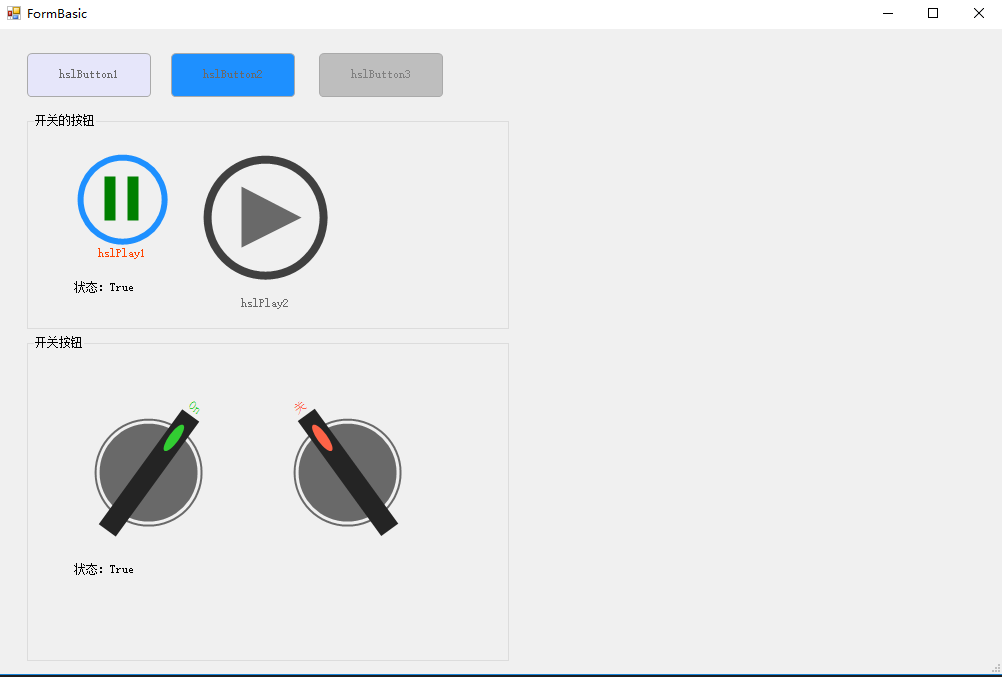
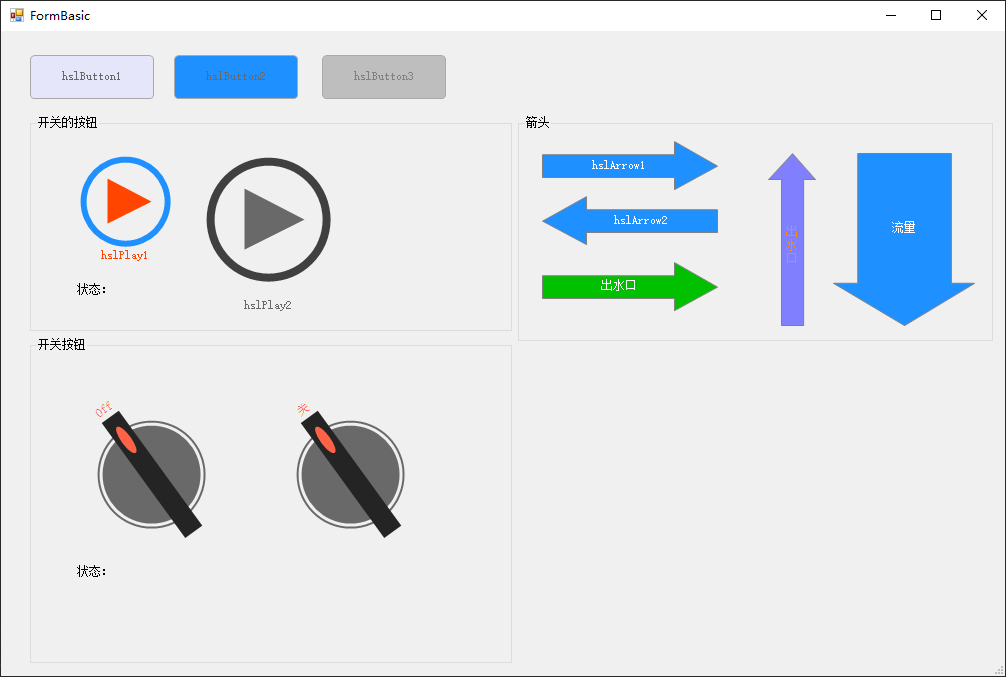
feat(release): v2.0.4

diff --git a/HslControlsDemo/FormBasic.Designer.cs b/HslControlsDemo/FormBasic.Designer.cs
@@ -29,18 +29,25 @@
         private void InitializeComponent( )
         {
             this.groupBox1 = new System.Windows.Forms.GroupBox();
+            this.hslPlay2 = new HslControls.HslPlay();
             this.label1 = new System.Windows.Forms.Label();
+            this.hslPlay1 = new HslControls.HslPlay();
             this.groupBox2 = new System.Windows.Forms.GroupBox();
             this.label2 = new System.Windows.Forms.Label();
             this.hslSwitch2 = new HslControls.HslSwitch();
             this.hslSwitch1 = new HslControls.HslSwitch();
-            this.hslPlay2 = new HslControls.HslPlay();
-            this.hslPlay1 = new HslControls.HslPlay();
             this.hslButton3 = new HslControls.HslButton();
             this.hslButton2 = new HslControls.HslButton();
             this.hslButton1 = new HslControls.HslButton();
+            this.groupBox3 = new System.Windows.Forms.GroupBox();
+            this.hslArrow1 = new HslControls.HslArrow();
+            this.hslArrow2 = new HslControls.HslArrow();
+            this.hslArrow3 = new HslControls.HslArrow();
+            this.hslArrow4 = new HslControls.HslArrow();
+            this.hslArrow5 = new HslControls.HslArrow();
             this.groupBox1.SuspendLayout();
             this.groupBox2.SuspendLayout();
+            this.groupBox3.SuspendLayout();
             this.SuspendLayout();
             // 
             // groupBox1
@@ -55,6 +62,18 @@
             this.groupBox1.TabStop = false;
             this.groupBox1.Text = "开关的按钮";
             // 
+            // hslPlay2
+            // 
+            this.hslPlay2.ActiveColor = System.Drawing.Color.FromArgb(((int)(((byte)(192)))), ((int)(((byte)(64)))), ((int)(((byte)(0)))));
+            this.hslPlay2.BorderColor = System.Drawing.Color.FromArgb(((int)(((byte)(64)))), ((int)(((byte)(64)))), ((int)(((byte)(64)))));
+            this.hslPlay2.Cursor = System.Windows.Forms.Cursors.Hand;
+            this.hslPlay2.ForeColor = System.Drawing.Color.DimGray;
+            this.hslPlay2.Location = new System.Drawing.Point(172, 37);
+            this.hslPlay2.Name = "hslPlay2";
+            this.hslPlay2.Size = new System.Drawing.Size(132, 173);
+            this.hslPlay2.TabIndex = 5;
+            this.hslPlay2.Text = "hslPlay2";
+            // 
             // label1
             // 
             this.label1.AutoSize = true;
@@ -63,6 +82,16 @@
             this.label1.Size = new System.Drawing.Size(41, 12);
             this.label1.TabIndex = 4;
             this.label1.Text = "状态：";
+            // 
+            // hslPlay1
+            // 
+            this.hslPlay1.Cursor = System.Windows.Forms.Cursors.Hand;
+            this.hslPlay1.Location = new System.Drawing.Point(47, 37);
+            this.hslPlay1.Name = "hslPlay1";
+            this.hslPlay1.Size = new System.Drawing.Size(96, 110);
+            this.hslPlay1.TabIndex = 3;
+            this.hslPlay1.Text = "hslPlay1";
+            this.hslPlay1.OnPlayChanged += new System.Action<object, bool>(this.hslPlay1_OnPlayChanged);
             // 
             // groupBox2
             // 
@@ -107,28 +136,6 @@
             this.hslSwitch1.Text = "hslSwitch1";
             this.hslSwitch1.OnSwitchChanged += new System.Action<object, bool>(this.hslSwitch1_OnSwitchChanged);
             // 
-            // hslPlay2
-            // 
-            this.hslPlay2.ActiveColor = System.Drawing.Color.FromArgb(((int)(((byte)(192)))), ((int)(((byte)(64)))), ((int)(((byte)(0)))));
-            this.hslPlay2.BorderColor = System.Drawing.Color.FromArgb(((int)(((byte)(64)))), ((int)(((byte)(64)))), ((int)(((byte)(64)))));
-            this.hslPlay2.Cursor = System.Windows.Forms.Cursors.Hand;
-            this.hslPlay2.ForeColor = System.Drawing.Color.DimGray;
-            this.hslPlay2.Location = new System.Drawing.Point(172, 37);
-            this.hslPlay2.Name = "hslPlay2";
-            this.hslPlay2.Size = new System.Drawing.Size(132, 173);
-            this.hslPlay2.TabIndex = 5;
-            this.hslPlay2.Text = "hslPlay2";
-            // 
-            // hslPlay1
-            // 
-            this.hslPlay1.Cursor = System.Windows.Forms.Cursors.Hand;
-            this.hslPlay1.Location = new System.Drawing.Point(47, 37);
-            this.hslPlay1.Name = "hslPlay1";
-            this.hslPlay1.Size = new System.Drawing.Size(96, 110);
-            this.hslPlay1.TabIndex = 3;
-            this.hslPlay1.Text = "hslPlay1";
-            this.hslPlay1.OnPlayChanged += new System.Action<object, bool>(this.hslPlay1_OnPlayChanged);
-            // 
             // hslButton3
             // 
             this.hslButton3.CustomerInformation = null;
@@ -158,11 +165,87 @@
             this.hslButton1.TabIndex = 0;
             this.hslButton1.Text = "hslButton1";
             // 
+            // groupBox3
+            // 
+            this.groupBox3.Controls.Add(this.hslArrow5);
+            this.groupBox3.Controls.Add(this.hslArrow4);
+            this.groupBox3.Controls.Add(this.hslArrow3);
+            this.groupBox3.Controls.Add(this.hslArrow2);
+            this.groupBox3.Controls.Add(this.hslArrow1);
+            this.groupBox3.Location = new System.Drawing.Point(517, 85);
+            this.groupBox3.Name = "groupBox3";
+            this.groupBox3.Size = new System.Drawing.Size(475, 226);
+            this.groupBox3.TabIndex = 10;
+            this.groupBox3.TabStop = false;
+            this.groupBox3.Text = "箭头";
+            // 
+            // hslArrow1
+            // 
+            this.hslArrow1.EdgeColor = System.Drawing.Color.Gray;
+            this.hslArrow1.FactorX = 0.75F;
+            this.hslArrow1.FactorY = 0.27F;
+            this.hslArrow1.Location = new System.Drawing.Point(24, 25);
+            this.hslArrow1.Name = "hslArrow1";
+            this.hslArrow1.Size = new System.Drawing.Size(176, 49);
+            this.hslArrow1.TabIndex = 0;
+            this.hslArrow1.Text = "hslArrow1";
+            // 
+            // hslArrow2
+            // 
+            this.hslArrow2.ArrowDirection = System.Windows.Forms.ArrowDirection.Left;
+            this.hslArrow2.EdgeColor = System.Drawing.Color.Gray;
+            this.hslArrow2.FactorX = 0.75F;
+            this.hslArrow2.FactorY = 0.27F;
+            this.hslArrow2.Location = new System.Drawing.Point(24, 80);
+            this.hslArrow2.Name = "hslArrow2";
+            this.hslArrow2.Size = new System.Drawing.Size(176, 49);
+            this.hslArrow2.TabIndex = 1;
+            this.hslArrow2.Text = "hslArrow2";
+            // 
+            // hslArrow3
+            // 
+            this.hslArrow3.ArrowBackColor = System.Drawing.Color.FromArgb(((int)(((byte)(0)))), ((int)(((byte)(192)))), ((int)(((byte)(0)))));
+            this.hslArrow3.EdgeColor = System.Drawing.Color.Gray;
+            this.hslArrow3.FactorX = 0.75F;
+            this.hslArrow3.FactorY = 0.27F;
+            this.hslArrow3.Location = new System.Drawing.Point(24, 146);
+            this.hslArrow3.Name = "hslArrow3";
+            this.hslArrow3.Size = new System.Drawing.Size(176, 49);
+            this.hslArrow3.TabIndex = 2;
+            this.hslArrow3.Text = "出水口";
+            // 
+            // hslArrow4
+            // 
+            this.hslArrow4.ArrowBackColor = System.Drawing.Color.FromArgb(((int)(((byte)(128)))), ((int)(((byte)(128)))), ((int)(((byte)(255)))));
+            this.hslArrow4.ArrowDirection = System.Windows.Forms.ArrowDirection.Up;
+            this.hslArrow4.EdgeColor = System.Drawing.Color.Gray;
+            this.hslArrow4.FactorX = 0.85F;
+            this.hslArrow4.FactorY = 0.27F;
+            this.hslArrow4.ForeColor = System.Drawing.Color.DarkOrange;
+            this.hslArrow4.Location = new System.Drawing.Point(250, 37);
+            this.hslArrow4.Name = "hslArrow4";
+            this.hslArrow4.Size = new System.Drawing.Size(48, 173);
+            this.hslArrow4.TabIndex = 3;
+            this.hslArrow4.Text = "出水口";
+            // 
+            // hslArrow5
+            // 
+            this.hslArrow5.ArrowDirection = System.Windows.Forms.ArrowDirection.Down;
+            this.hslArrow5.EdgeColor = System.Drawing.Color.Gray;
+            this.hslArrow5.FactorX = 0.75F;
+            this.hslArrow5.FactorY = 0.17F;
+            this.hslArrow5.Location = new System.Drawing.Point(315, 37);
+            this.hslArrow5.Name = "hslArrow5";
+            this.hslArrow5.Size = new System.Drawing.Size(142, 173);
+            this.hslArrow5.TabIndex = 4;
+            this.hslArrow5.Text = "流量";
+            // 
             // FormBasic
             // 
             this.AutoScaleDimensions = new System.Drawing.SizeF(6F, 12F);
             this.AutoScaleMode = System.Windows.Forms.AutoScaleMode.Font;
             this.ClientSize = new System.Drawing.Size(1004, 645);
+            this.Controls.Add(this.groupBox3);
             this.Controls.Add(this.groupBox2);
             this.Controls.Add(this.groupBox1);
             this.Controls.Add(this.hslButton3);
@@ -175,6 +258,7 @@
             this.groupBox1.PerformLayout();
             this.groupBox2.ResumeLayout(false);
             this.groupBox2.PerformLayout();
+            this.groupBox3.ResumeLayout(false);
             this.ResumeLayout(false);
 
         }
@@ -192,5 +276,11 @@
         private HslControls.HslSwitch hslSwitch2;
         private HslControls.HslSwitch hslSwitch1;
         private System.Windows.Forms.Label label2;
+        private System.Windows.Forms.GroupBox groupBox3;
+        private HslControls.HslArrow hslArrow5;
+        private HslControls.HslArrow hslArrow4;
+        private HslControls.HslArrow hslArrow3;
+        private HslControls.HslArrow hslArrow2;
+        private HslControls.HslArrow hslArrow1;
     }
 }

diff --git a/HslControlsDemo/FormCurveHistory.Designer.cs b/HslControlsDemo/FormCurveHistory.Designer.cs
@@ -43,6 +43,8 @@
             this.button7 = new System.Windows.Forms.Button();
             this.checkBox3 = new System.Windows.Forms.CheckBox();
             this.hslCurveHistory1 = new HslControls.HslCurveHistory();
+            this.button8 = new System.Windows.Forms.Button();
+            this.label4 = new System.Windows.Forms.Label();
             this.SuspendLayout();
             // 
             // button1
@@ -209,12 +211,34 @@
             this.hslCurveHistory1.ValueMaxRight = 5F;
             this.hslCurveHistory1.ValueSegment = 25;
             this.hslCurveHistory1.onCurveDoubleClick += new HslControls.HslCurveHistory.CurveDoubleClick(this.hslCurveHistory1_onCurveDoubleClick);
+            this.hslCurveHistory1.onCurveRangeSelect += new HslControls.HslCurveHistory.CurveRangeSelect(this.HslCurveHistory1_onCurveRangeSelect);
+            // 
+            // button8
+            // 
+            this.button8.Location = new System.Drawing.Point(454, 612);
+            this.button8.Name = "button8";
+            this.button8.Size = new System.Drawing.Size(87, 25);
+            this.button8.TabIndex = 23;
+            this.button8.Text = "滚动条右侧";
+            this.button8.UseVisualStyleBackColor = true;
+            this.button8.Click += new System.EventHandler(this.Button8_Click);
+            // 
+            // label4
+            // 
+            this.label4.AutoSize = true;
+            this.label4.Location = new System.Drawing.Point(414, 9);
+            this.label4.Name = "label4";
+            this.label4.Size = new System.Drawing.Size(53, 12);
+            this.label4.TabIndex = 24;
+            this.label4.Text = "选择信息";
             // 
             // FormCurveHistory
             // 
             this.AutoScaleDimensions = new System.Drawing.SizeF(6F, 12F);
             this.AutoScaleMode = System.Windows.Forms.AutoScaleMode.Font;
             this.ClientSize = new System.Drawing.Size(1004, 645);
+            this.Controls.Add(this.label4);
+            this.Controls.Add(this.button8);
             this.Controls.Add(this.checkBox3);
             this.Controls.Add(this.button7);
             this.Controls.Add(this.linkLabel1);
@@ -256,5 +280,7 @@
         private System.Windows.Forms.LinkLabel linkLabel1;
         private System.Windows.Forms.Button button7;
         private System.Windows.Forms.CheckBox checkBox3;
+        private System.Windows.Forms.Button button8;
+        private System.Windows.Forms.Label label4;
     }
 }

diff --git a/HslControlsDemo/FormLoad.cs b/HslControlsDemo/FormLoad.cs
@@ -174,7 +174,7 @@ namespace HslControlsDemo
             System.Threading.ThreadPool.QueueUserWorkItem( new System.Threading.WaitCallback( ThreadPoolCheckVersion ), null );
         }
 
-        private HslCommunication.BasicFramework.SystemVersion versionCurr = new HslCommunication.BasicFramework.SystemVersion( "2.0.3" );
+        private HslCommunication.BasicFramework.SystemVersion versionCurr = new HslCommunication.BasicFramework.SystemVersion( "2.0.4" );
 
         private void ThreadPoolCheckVersion( object obj )
         {

diff --git a/HslControlsDemo/FormCurve.cs b/HslControlsDemo/FormCurve.cs
@@ -184,12 +184,11 @@ namespace HslControlsDemo
             //hslCurve3.Invalidate( );
         }
 
-        private bool isVisiable = true;
+
         private void button3_Click( object sender, EventArgs e )
         {
-            // 隐藏曲线
-            isVisiable = !isVisiable;
-            hslCurve6.SetCurveVisible( new string[] { "A" }, isVisiable );
+            // 清空所有曲线的数据
+            hslCurve6.RemoveAllCurveData( );
         }
 
         private void button4_Click( object sender, EventArgs e )

diff --git a/HslControlsDemo/FormCurveHistory.cs b/HslControlsDemo/FormCurveHistory.cs
@@ -187,5 +187,15 @@ namespace HslControlsDemo
             }
             fileDialog.Dispose( );
         }
+
+        private void Button8_Click( object sender, EventArgs e )
+        {
+            hslCurveHistory1.ScrollToRight( );
+        }
+
+        private void HslCurveHistory1_onCurveRangeSelect( HslControls.HslCurveHistory hslCurve, int index, int end )
+        {
+            label4.Text = DateTime.Now.ToString( "HH:mm:ss" ) + "  Start:" + index + "  End:" + end;
+        }
     }
 }

diff --git a/HslControlsDemo/FormCurve.Designer.cs b/HslControlsDemo/FormCurve.Designer.cs
@@ -113,7 +113,7 @@
             this.button3.Name = "button3";
             this.button3.Size = new System.Drawing.Size(83, 23);
             this.button3.TabIndex = 13;
-            this.button3.Text = "隐藏曲线";
+            this.button3.Text = "清空曲线";
             this.button3.UseVisualStyleBackColor = true;
             this.button3.Click += new System.EventHandler(this.button3_Click);
             // 
